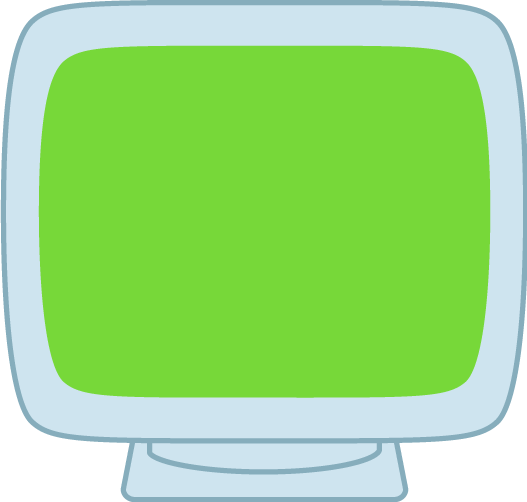
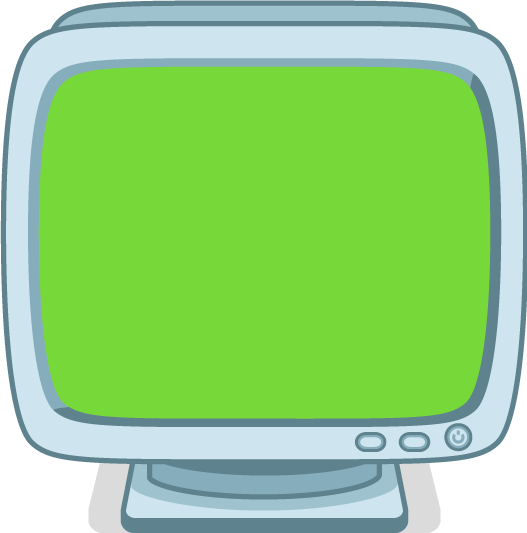
Computer shine + bug fix

Changed region(s): [[0.0, 0.0, 1.0, 1.0]]

diff --git a/src/scripts/state/game.ts b/src/scripts/state/game.ts
@@ -33,8 +33,11 @@ module Ala3.State {
             this.add.existing(stamp);
             stamp.events.onInputDown.add(this.onToolClick, this);
 
-            let solitaire = new Entity.Solitaire(this.game, 548 ,13);
+            let solitaire = new Entity.Solitaire(this.game, 548 ,-7);
             this.add.existing(solitaire);
+
+            let shine = new Phaser.Sprite(this.game, 921, 74, 'computer-shine');
+            this.add.existing(shine);
 
             this.cursorTool = new Phaser.Sprite(this.game, 0, 0, 'stapler-desk');
             this.cursorTool.visible = false;

diff --git a/src/scripts/state/preloader.ts b/src/scripts/state/preloader.ts
@@ -8,6 +8,7 @@ module Ala3.State {
             this.load.image('bg', 'assets/images/background.png');
 
             this.load.image('computer', 'assets/images/computer-screen.png');
+            this.load.image('computer-shine', 'assets/images/computer-shine.png');
             this.load.image('card-back', 'assets/images/card-back-tropical.png');
             this.load.image('card-front', 'assets/images/card-front.png');
 

diff --git a/src/scripts/entity/card.ts b/src/scripts/entity/card.ts
@@ -65,7 +65,7 @@ module Ala3.Entity {
 
             this.revealed = true;
             this.inputEnabled = true;
-            this.input.enableDrag(false, true);
+            this.input.enableDrag(false, false);
             this.events.onDragStart.add(function () {
                 this.startDragPos = {x: this.x, y: this.y};
 
